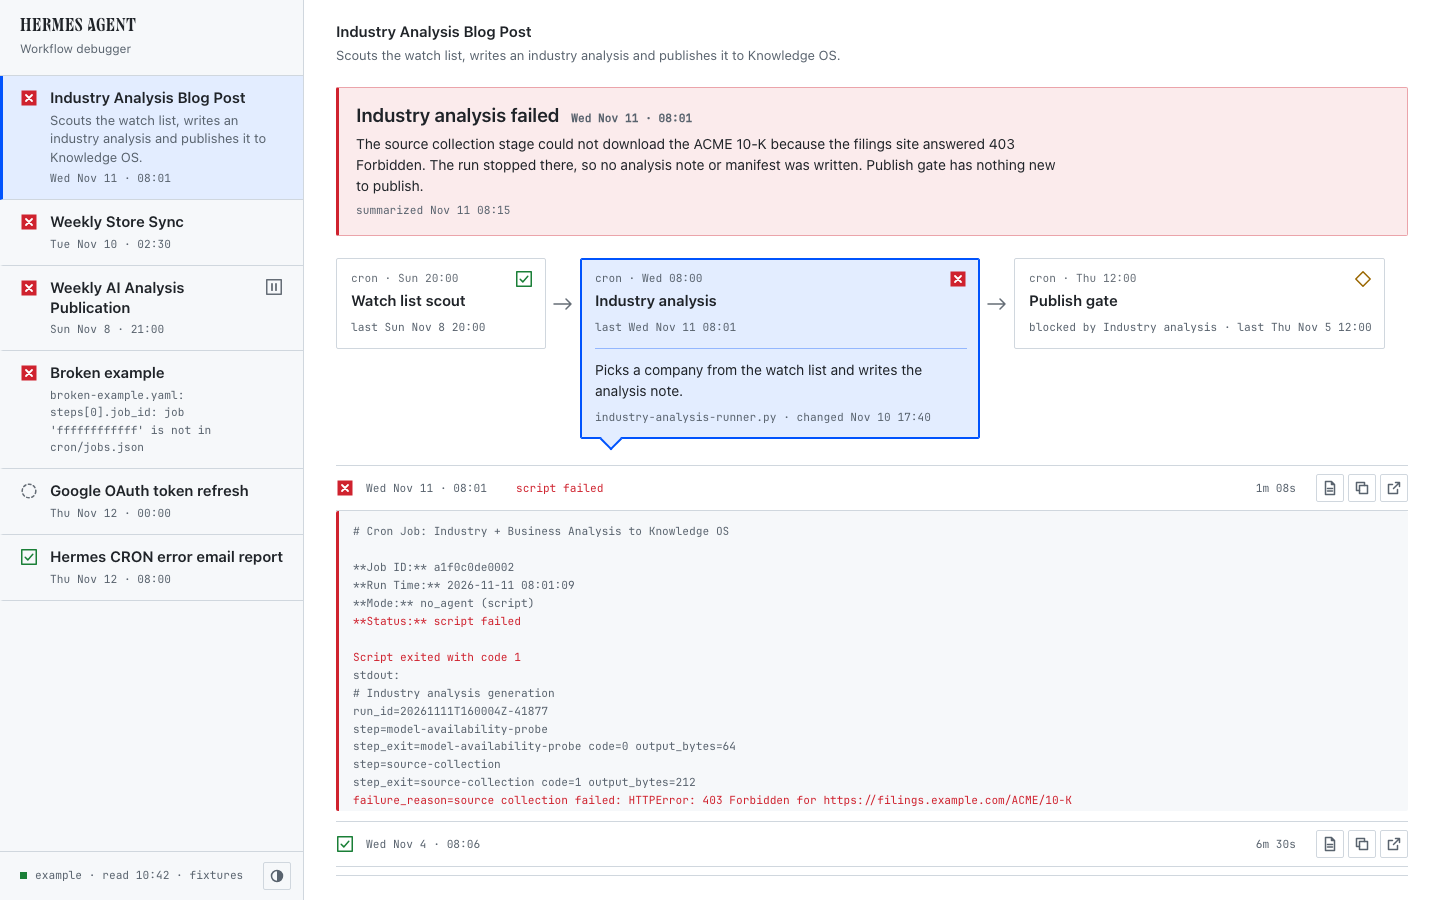
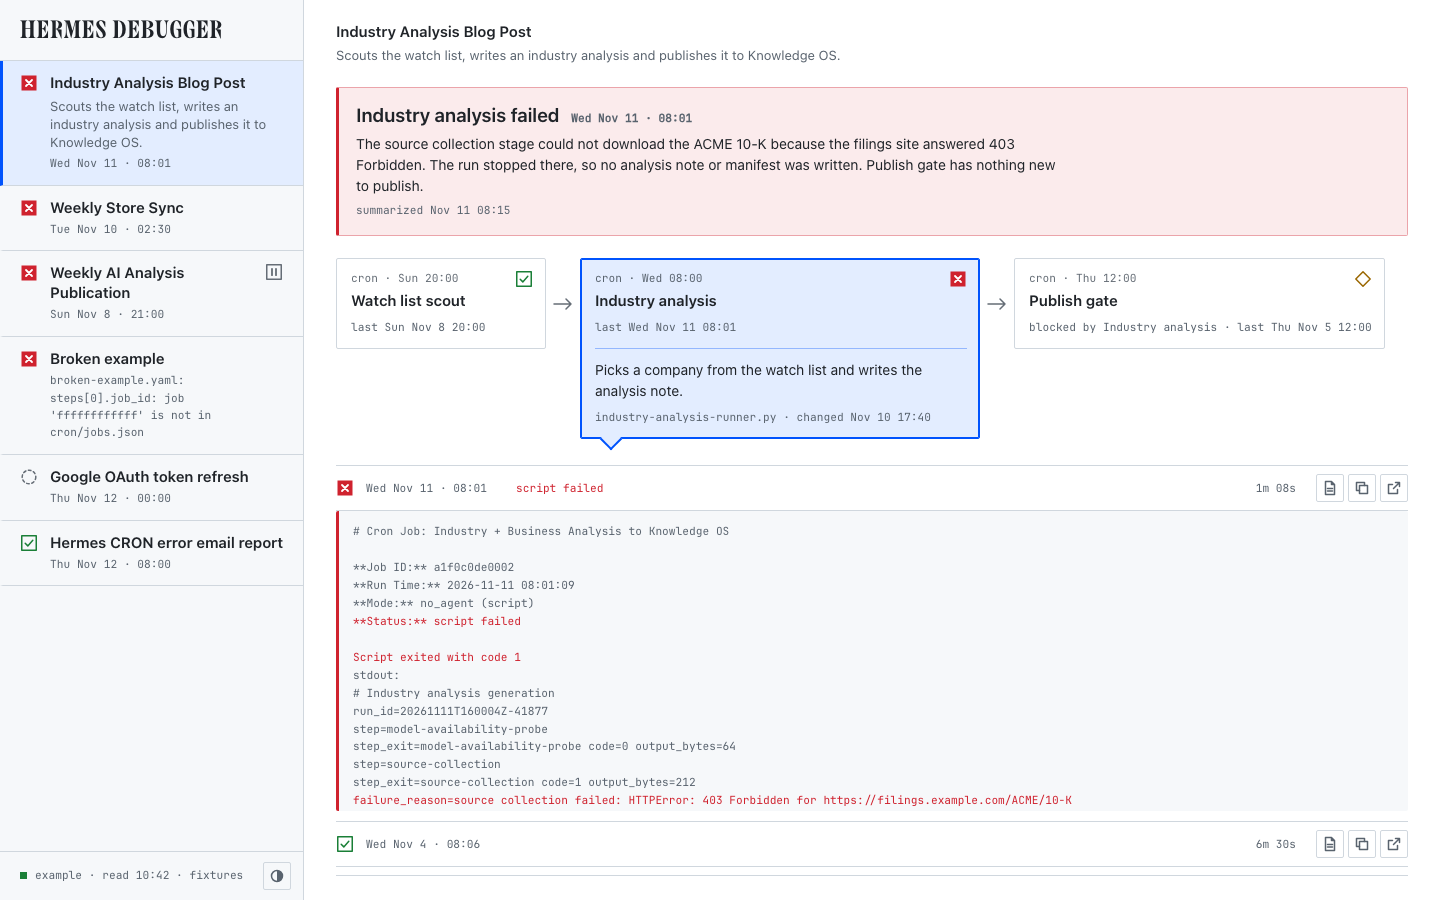
Rail title: Hermes Debugger, larger, no sub-title

Changed region(s): [[0.0, 0.0, 0.2188, 0.6533]]

diff --git a/web/app.css b/web/app.css
@@ -42,9 +42,8 @@ svg { width: 16px; height: 16px; fill: none; stroke: currentColor; stroke-width:
 .app { flex: 1; display: grid; grid-template-columns: var(--rail) minmax(0, 1fr); min-height: 0; }
 .rail { background: var(--rail-bg); border-right: 1px solid var(--border); display: flex; flex-direction: column; min-height: 0;
   position: sticky; top: 0; height: 100vh; overflow-y: auto; }
-.brand { padding: 18px 20px 16px; border-bottom: 1px solid var(--border); }
-.brand .wm { font-family: var(--f-chrome); font-weight: 700; text-transform: uppercase; letter-spacing: .04em; font-size: 16px; line-height: 1; }
-.brand .sub { font-size: .86rem; color: var(--text-2); margin-top: 6px; }
+.brand { padding: 20px 20px 18px; border-bottom: 1px solid var(--border); }
+.brand .wm { font-family: var(--f-chrome); font-weight: 700; text-transform: uppercase; letter-spacing: .04em; font-size: 22px; line-height: 1; }
 .wf { display: grid; grid-template-columns: 18px 1fr; gap: 4px 12px; width: 100%; padding: 12px 20px 12px 17px;
   border-left: 3px solid transparent; border-bottom: 1px solid var(--border); }
 .wf:hover { background: var(--card); }

diff --git a/web/index.html b/web/index.html
@@ -3,13 +3,13 @@
 <head>
 <meta charset="utf-8">
 <meta name="viewport" content="width=device-width, initial-scale=1">
-<title>Hermes Workflow Debugger</title>
+<title>Hermes Debugger</title>
 <link rel="stylesheet" href="/app.css">
 </head>
 <body>
 <div class="app">
   <nav class="rail" aria-label="Workflows">
-    <div class="brand"><div class="wm">Hermes Agent</div><div class="sub">Workflow debugger</div></div>
+    <div class="brand"><div class="wm">Hermes Debugger</div></div>
     <div id="wfs"></div>
     <div class="railfoot" id="foot"></div>
   </nav>

diff --git a/tools/browser_checks.py b/tools/browser_checks.py
@@ -126,6 +126,10 @@ def main(out: Path) -> int:
         b.goto(base + "/")
         check("AC-26", "light is the default theme when nothing is chosen",
               b.js("document.documentElement.dataset.theme") == "light" and b.js("getComputedStyle(document.body).backgroundColor") == "rgb(255, 255, 255)")
+        lib(b)
+        check("AC-26", "rail title reads Hermes Debugger at 22px on one line, with no sub-title",
+              b.js("T.txt('.brand')") == "Hermes Debugger" and b.js("T.css('.brand .wm', 'fontSize')") == "22px"
+              and b.js("document.querySelector('.brand .wm').offsetHeight") <= 24 and b.js("document.querySelector('.brand').children.length") == 1)
         # ---------------- first screen, zero clicks (O1, AC-8) ----------------
         goto(b, base + "/")
         b.wait("document.querySelector('pre.out')")
